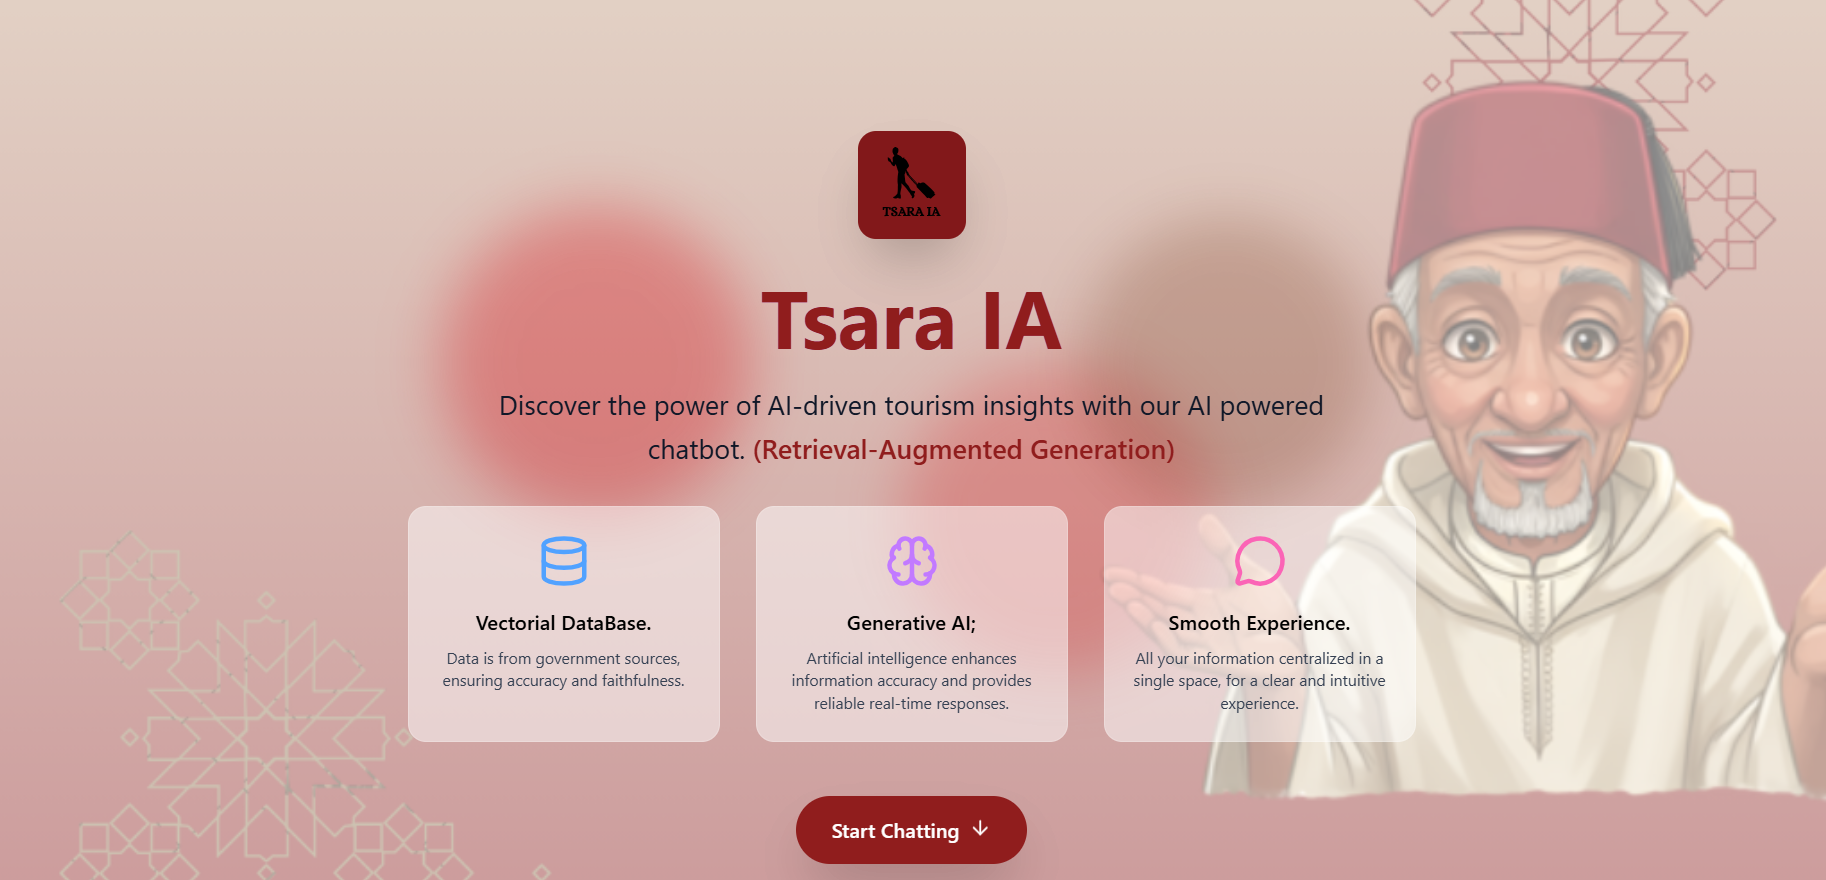
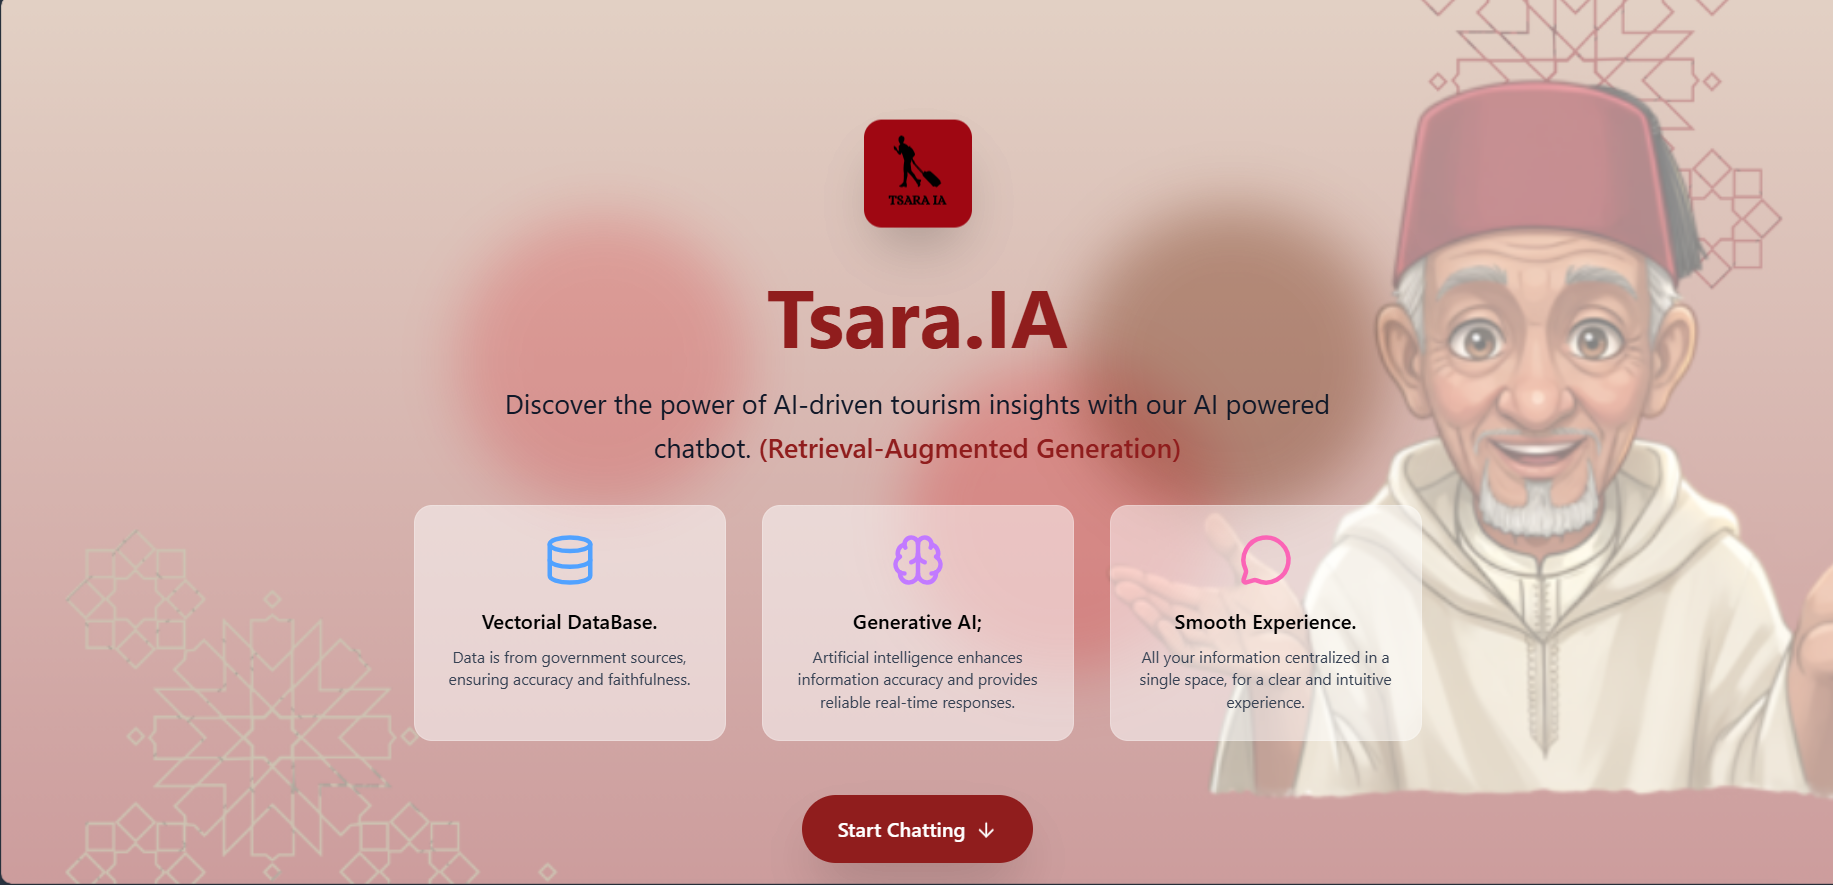
correct readme file

diff --git a/frontend/src/components/ChatbotInterface.jsx b/frontend/src/components/ChatbotInterface.jsx
@@ -127,7 +127,7 @@ const ChatbotInterface = () => {
             </div>
 
             <h1 className="text-6xl md:text-7xl font-bold text-dark-red mb-6 bg-clip-text">
-              Tsara IA
+              Tsara.IA
             </h1>
 
             <p className="text-xl md:text-2xl text-gray-900 mb-8 max-w-3xl mx-auto leading-relaxed ">

diff --git a/backend/src/prompt.py b/backend/src/prompt.py
@@ -8,7 +8,7 @@ promptResponse = ChatPromptTemplate.from_messages([
     (
         "system",
         """
-        You are TsaraIA, an intelligent and friendly tourism moroccan assistant.  
+        You are Tsara.IA, an intelligent and friendly tourism moroccan assistant.  
         Your mission is to provide clear, accurate, and engaging information about destinations, travel tips, local culture, attractions, accommodations, transportation and historic monuments ...  
         Answer with the user's language (French, English, etc.).
         Behavior Guidelines:

diff --git a/README.md b/README.md
@@ -66,13 +66,13 @@
 
 
 <!-- ABOUT THE PROJECT -->
-## TsaraIA: Intelligent Tourism Assistant for Morocco
+## Tsara.IA: Intelligent Tourism Assistant for Morocco
 
 [![Product Name Screen Shot][product-screenshot]](https://example.com)
 
-TsaraIA is an AI-powered agent designed to make travel in Morocco smarter, easier, and more engaging. Built with a Retrieval-Augmented Generation (RAG) architecture, it leverages advanced LLMs, LangChain, and Hugging Face embeddings to provide context-aware answers grounded in reliable local data.
+Tsara.IA is an AI-powered agent designed to make travel in Morocco smarter, easier, and more engaging. Built with a Retrieval-Augmented Generation (RAG) architecture, it leverages advanced LLMs, LangChain, and Hugging Face embeddings to provide context-aware answers grounded in reliable local data.
 
-### What makes TsaraIA unique?
+### What makes Tsara.IA unique?
 
 * Trusted Sources: Information comes from curated datasets, including:
 
@@ -80,17 +80,19 @@ TsaraIA is an AI-powered agent designed to make travel in Morocco smarter, easie
     * Licensed tourism guides and cultural references
     * Local meals, recipes, and authentic culinary insights
 
-* Contextual Understanding: Unlike a simple chatbot, TsaraIA retrieves and synthesizes information from vector databases to deliver relevant, accurate, and personalized answers.
+* Contextual Understanding: Unlike a simple chatbot, Tsara.IA retrieves and synthesizes information from vector databases to deliver relevant, accurate, and personalized answers.
 
 * Cutting-Edge Tech Stack:
 
-    * LLMs for natural language reasoning
-    * LangChain for orchestration and tool integration
-    * Hugging Face embeddings for semantic search and vector retrieval
-    * ChromaDB as the vector database
+    * `LLMs` for natural language reasoning
+    * `LangChain` for orchestration and tool integration
+    * `Hugging Face` embeddings for semantic search and vector retrieval
+    * `ChromaDB` as the vector database.
+    * `React.js` for an intuitive user interface, ensuring easy access to the system’s features and functionality.
+    * `FastApi` : for a fast, reliable, and scalable backend to handle API requests efficiently.
     
 * Database
-    * All documents used to ensure accuracy come from reliable sources, such as ![Govermental website](https://data.gov.ma/data/dataset/), and trused sources for ![dataset](https://www.kaggle.com/)
+    * All documents used to ensure accuracy come from reliable sources, such as [Govermental website](https://data.gov.ma/data/dataset/), and trused sources for [dataset](https://www.kaggle.com/)
 
 <p align="right">(<a href="#readme-top">back to top</a>)</p>
 
